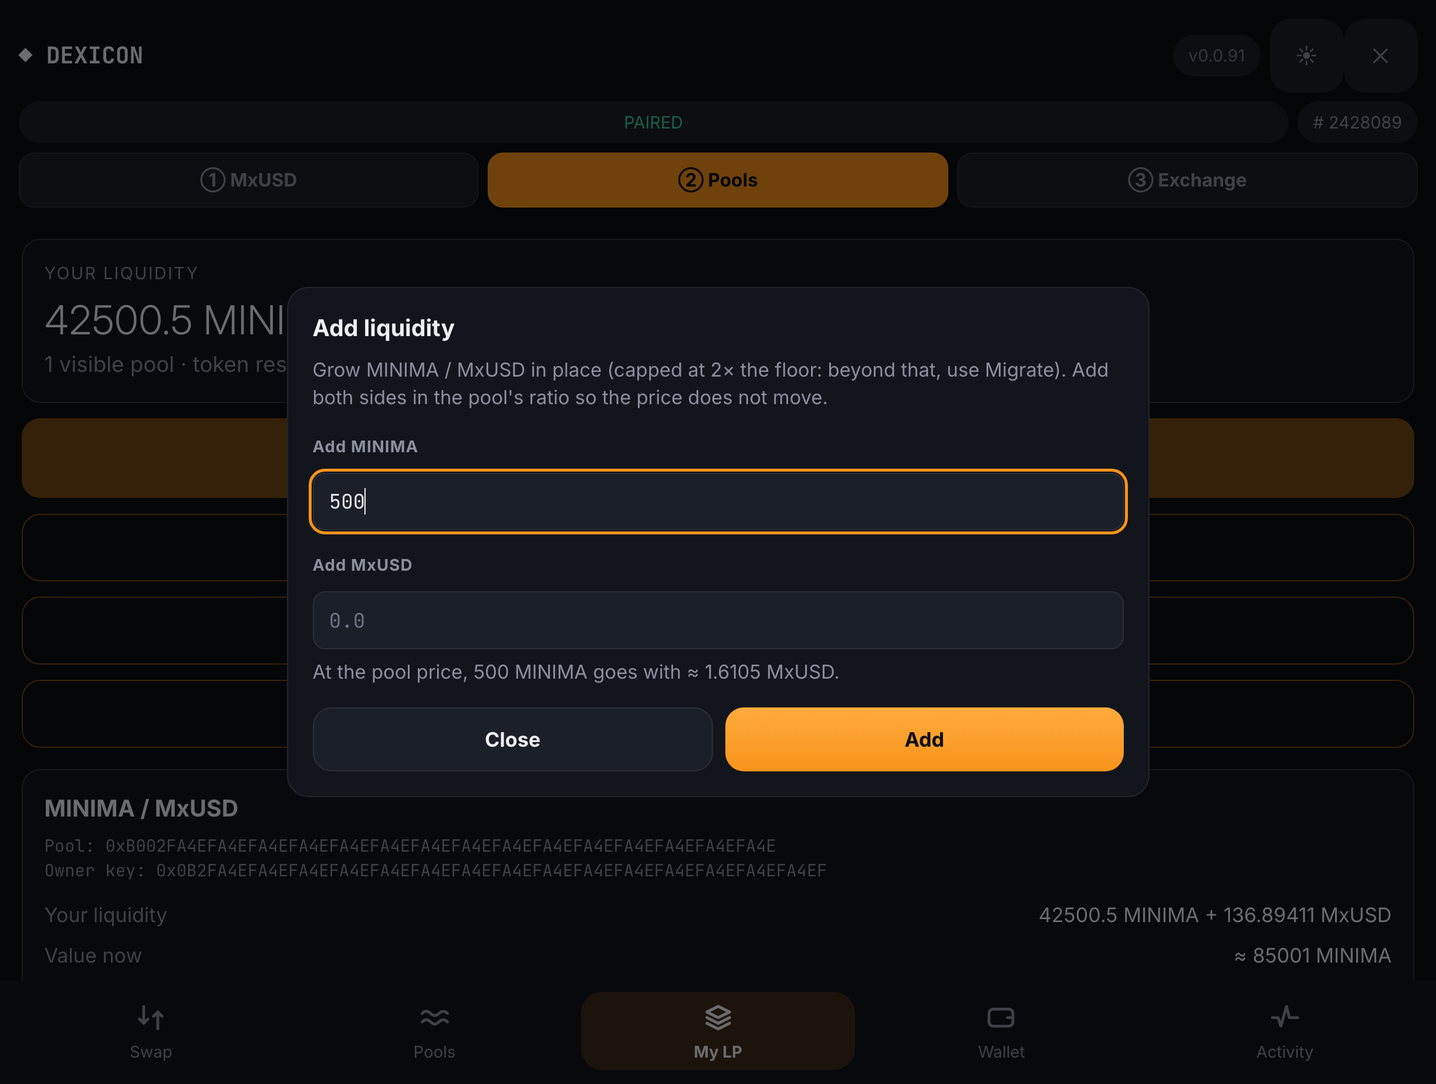
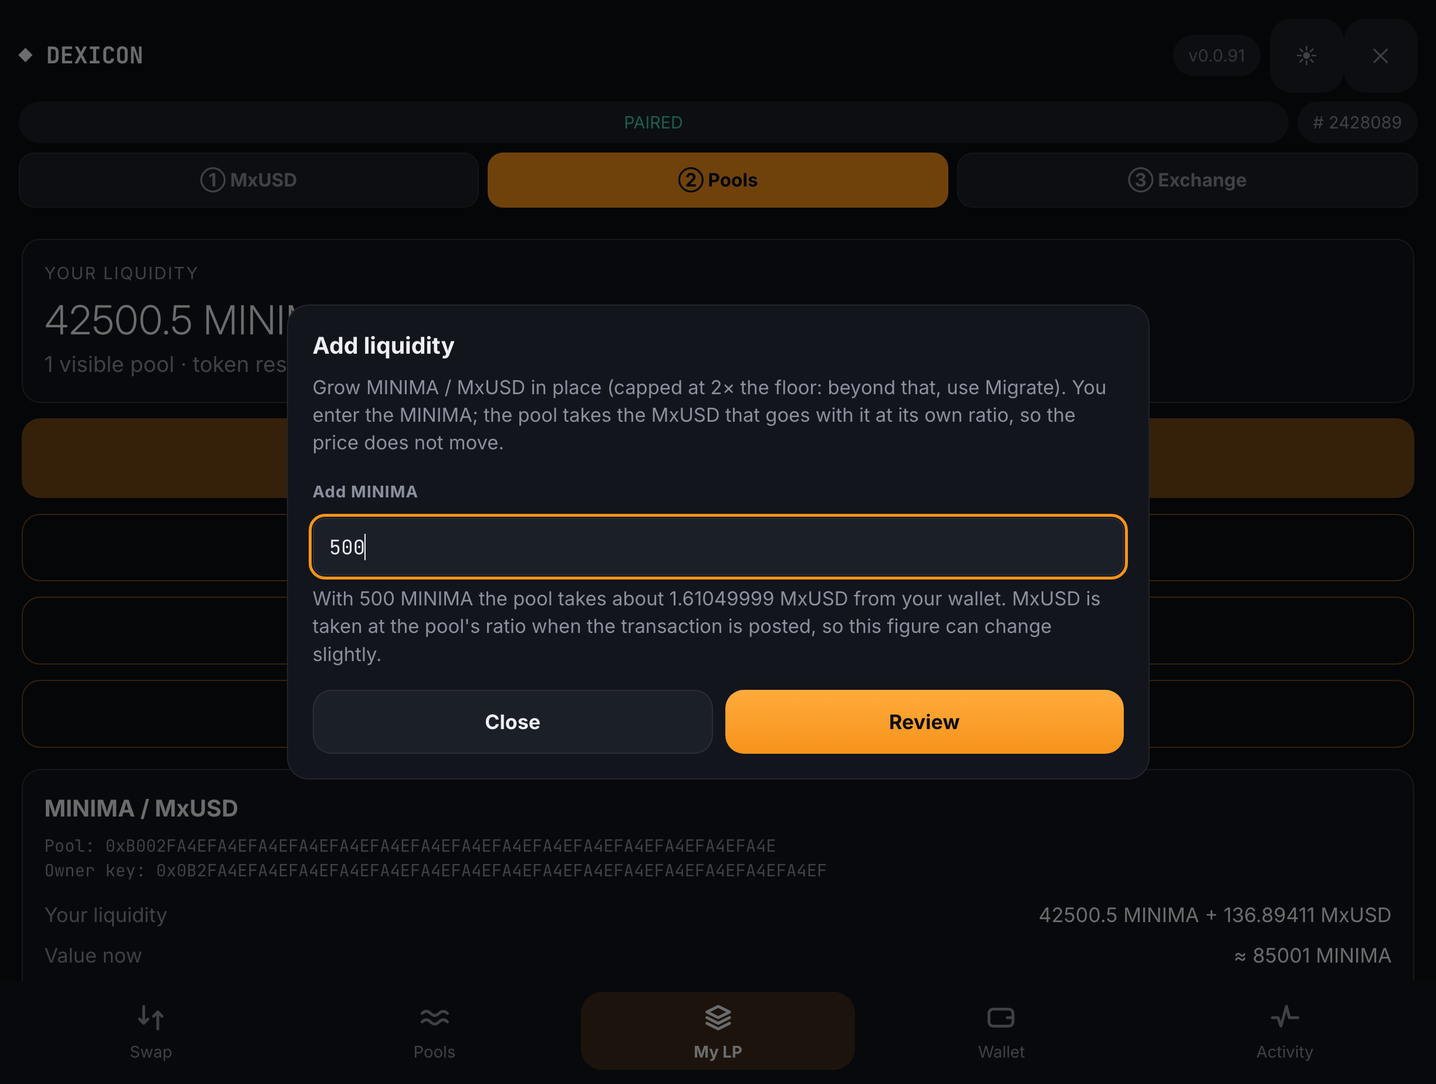
0.18.136: Dexicon ② Pools, Add liquidity reviews what is sent (review H) — one MINIMA field with the MxUSD the pool will take at its ratio as a live estimate; the review states both sides and that the MxUSD figure can change slightly; an empty or zero MINIMA amount is refused before the question; th
Claude-Session: https://claude.ai/code/session_01P3zos5bMGMNjR4T6fhfPNh

Changed region(s): [[0.2174, 0.2776, 0.8075, 0.7403]]

diff --git a/renderer/dexicon-pp.js b/renderer/dexicon-pp.js
@@ -86,7 +86,9 @@
   /** What the Swap click asks to be confirmed (SwapView.confirmAndSwap; the old panel's "Confirm swap"). */
   function swapReview(q, amt, t, dir) {
     const pay = dir ? "MINIMA" : t.name, get = dir ? t.name : "MINIMA";
-    return { title: "Confirm swap", ok: "Swap", text: "Pay  " + amt + " " + pay + "\nReceive  " + whole(q.totalOut) + " " + get + "\nRate  ≈ " + cut(q.effPrice, 8) + " " + t.name + " / MINIMA\nPool pair  " + pairName(t) + (t.fake ? "\n\n" + IMITATES : "") + "\n\nPrice impact " + q.priceImpact + "%."
+    // what is PAID is the amount the engine routed (q.totalIn), which is what will be posted; a typed amount it did not take whole is said beside it
+    const routed = q.totalIn != null && q.totalIn !== "" ? whole(q.totalIn) : String(amt), typed = C.dec(amt), same = !typed || routed === C.str(typed);
+    return { title: "Confirm swap", ok: "Swap", text: "Pay  " + routed + " " + pay + (same ? "" : "  (you typed " + amt + "; this is the amount the pools take)") + "\nReceive  " + whole(q.totalOut) + " " + get + "\nRate  ≈ " + cut(q.effPrice, 8) + " " + t.name + " / MINIMA\nPool pair  " + pairName(t) + (t.fake ? "\n\n" + IMITATES : "") + "\n\nPrice impact " + q.priceImpact + "%."
       + (Number(q.poolsUsed) > 1 ? "\nRouted across " + q.poolsUsed + " pools in one transaction." : "")
       + "\n\nThis posts a real on-chain transaction for exactly these amounts. There is no slippage setting: if a pool moves before it confirms, the swap is rejected and you keep your funds." };
   }
@@ -132,6 +134,12 @@
       if (p.ageBlocks > 0) rows.push(["Age", (Number(p.ageBlocks) || 0) + " blocks  (~" + cutNum(p.ageBlocks * 50 / 3600) + " h)"]);
     }
     return rows;
+  }
+  /** The token side of an Add, as the engine works it out (main/pandapools/poolmgr.js deposit): MINIMA × token reserve ÷ MINIMA
+   *  reserve, CUT to the token's decimals. An estimate: the engine uses the reserves it reads when it posts. null = not known. */
+  function depositToken(p, a) {
+    const m = C.dec(a), rm = C.dec(p && p.reserveM), rt = C.dec(p && p.reserveT); if (!m || !rm || !rt || rm.v === 0n) return null;
+    return C.str(C.down(C.div(C.mul(m, rt), rm, 30), safeDec({ decimals: p.tokDecimals })));
   }
   const poolIds = (p) => "Pool: " + p.address + (p.opk ? "\nOwner key: " + p.opk : "");
   const recoveryResult = (r) => "Verified reserves for " + r.restored + " of " + r.total + " pools.\n" + (r.details || []).join("\n\n") + "\n" + (r.warn || "");
@@ -270,18 +278,27 @@
       const since = Date.now();
       try {
         const r = await api.ppSwap(q.quoteId);
-        ui.say("Swap submitted: you pay " + amt + " " + (dir ? "MINIMA" : t.name) + " and receive " + whole(r && r.totalOut) + " " + (dir ? t.name : "MINIMA") + " when a block confirms it. It is not final yet: follow it in Activity. Transaction " + ((r && r.txpowid) || "not reported"), "note");
+        ui.say("Swap submitted: you pay " + whole((r && r.totalIn) || q.totalIn || amt) + " " + (dir ? "MINIMA" : t.name) + " and receive " + whole(r && r.totalOut) + " " + (dir ? t.name : "MINIMA") + " when a block confirms it. It is not final yet: follow it in Activity. Transaction " + ((r && r.txpowid) || "not reported"), "note");
         return r || {};
       } catch (e) { ui.say(await why(api, "The swap", e, since), "error"); return { err: bare(e) }; }
     },
-    /** Add liquidity (the old panel's sheet): either amount may be left empty, not both; confirm → ppDeposit(address, a || "0", b || "0"). */
-    async deposit(api, ui, p, a, b) {
-      const name = tokLabel(p.tok, p.tokName), ok = (v) => v === "" || /^[0-9]*\.?[0-9]+$/.test(v);
-      if (!ok(a) || !ok(b) || ((parseFloat(a) || 0) <= 0 && (parseFloat(b) || 0) <= 0)) { ui.say("Enter an amount to add. Nothing was sent.", "note"); return null; }
-      if (!await ui.confirm("Add liquidity?", "Add " + (a || "0") + " MINIMA and " + (b || "0") + " " + name + " to the pool.\n\nPool: " + p.address + "\n\nThis posts an on-chain transaction and cannot be undone. The amounts stay yours inside the pool.", "Add")) return null;
+    /**
+     * Add liquidity. The engine takes ONE figure, the MINIMA to add, and works the token side out itself from the pool's
+     * live ratio when it posts (poolmgr.js deposit); a typed token amount was never used. So: one MINIMA amount, above
+     * zero (refused here, before the question); the review states both sides, the token side as the estimate it is;
+     * ppDeposit(address, MINIMA, that estimate), the engine's own call; and the result says what the engine took
+     * (r.minima, r.token from the glue), never what was typed.
+     */
+    async deposit(api, ui, p, a) {
+      const name = tokLabel(p.tok, p.tokName), est = amountOk(a) ? depositToken(p, a) : null;
+      if (!amountOk(a)) { ui.say("Enter the MINIMA amount to add, above zero. Nothing was sent.", "note"); return null; }
+      if (est == null) { ui.say("The pool's reserves are not known just now, so the " + name + " that goes with " + a + " MINIMA cannot be shown. Nothing was sent: try again in a moment.", "note"); return null; }
+      if (!await ui.confirm("Add liquidity?", "Add " + a + " MINIMA and about " + est + " " + name + " to the pool.\n\n" + name + " is taken at the pool's ratio when the transaction is posted, so this figure can change slightly.\n\nPool pair: " + pairName({ tok: p.tok, name }) + "\nPool: " + p.address + "\n\nThis posts an on-chain transaction and cannot be undone. The amounts stay yours inside the pool.", "Add")) return null;
       const since = Date.now();
-      try { const r = await api.ppDeposit(p.address, a || "0", b || "0"); ui.say("Liquidity sent to the pool: " + (a || "0") + " MINIMA and " + (b || "0") + " " + name + ". It counts once a block confirms it: follow it in Activity.", "note"); return r || {}; }
-      catch (e) { ui.say(await why(api, "Adding liquidity", e, since), "error"); return { err: bare(e) }; }
+      try {
+        const r = await api.ppDeposit(p.address, a, est);
+        ui.say("Liquidity sent to the pool: " + (r && r.minima && r.token ? whole(r.minima) + " MINIMA and " + whole(r.token) + " " + name + ", the amounts the pool took at its ratio" : a + " MINIMA and the " + name + " that goes with it at the pool's ratio (the exact figure is in Activity)") + ". It counts once a block confirms it: follow it in Activity.", "note"); return r || {};
+      } catch (e) { ui.say(await why(api, "Adding liquidity", e, since), "error"); return { err: bare(e) }; }
     },
     /** Close a pool and take all its liquidity out: confirm → ppClose(address). */
     async withdraw(api, ui, p) {
@@ -405,7 +422,7 @@
     }
   };
 
-  const core = { ACT_NAME, when, since, swapSummary, actItem, feedItem, walletCard, nodeCheck, STEPS, safeDec, createTokens, derive, createInfo, backupProblem, plainCode, cutNum, MIGRATE_AT, needsMigrate, lpSummary, lpRows, poolIds, recoveryResult, MINIMA, MXUSD, isMxusd, tokLabel, pairName, skeleton, imitates, IMITATES, chosen, NONE, lostLine, mx, cut, whole, amountOk, plural, pairs, poolLine, sendable, balanceLine, marketLine, quoteRows, swapReview, poolsSummary, poolCard, combinedCard, bare, failText };
+  const core = { ACT_NAME, when, since, swapSummary, actItem, feedItem, walletCard, nodeCheck, STEPS, safeDec, createTokens, derive, createInfo, backupProblem, plainCode, cutNum, MIGRATE_AT, needsMigrate, lpSummary, lpRows, depositToken, poolIds, recoveryResult, MINIMA, MXUSD, isMxusd, tokLabel, pairName, skeleton, imitates, IMITATES, chosen, NONE, lostLine, mx, cut, whole, amountOk, plural, pairs, poolLine, sendable, balanceLine, marketLine, quoteRows, swapReview, poolsSummary, poolCard, combinedCard, bare, failText };
   if (typeof document === "undefined") return Object.assign({ Act }, core);
 
   // ======================================================================== the screens
@@ -583,10 +600,12 @@
   /** every money action of the screen: Dexicon's one gate, the buttons off while it runs, then a fresh read */
   const act = (fn) => D.money(async () => { paint(); try { await fn(); } catch (e) { say(failText("That", e), "error"); } load(S.tab).then(paint, paint); }).then(paint, paint);
   async function addSheet(p) {
-    const name = tokLabel(p.tok, p.tokName), price = C.dec(p.poolPrice);
-    const got = await form("Add liquidity", `<div class="pp-note">Grow ${esc(pairName({ tok: p.tok, name }))} in place (capped at 2× the floor: beyond that, use Migrate). Add both sides in the pool's ratio so the price does not move.</div>${fld("Add MINIMA", "a")}${fld("Add " + name, "b")}<div class="pp-note" data-hint></div>`, "Add",
-      (d) => ({ a: val(d, "a"), b: val(d, "b") }), (d) => { d.oninput = () => { const m = C.dec(val(d, "a")); d.querySelector("[data-hint]").textContent = m && price && m.v > 0n ? "At the pool price, " + C.str(m) + " MINIMA goes with ≈ " + C.str(C.down(C.mul(m, price), 8)) + " " + name + "." : ""; }; });
-    if (got) await Act.deposit(api(), ui, p, got.a, got.b);
+    const name = tokLabel(p.tok, p.tokName);
+    // ONE field: the engine takes the MINIMA amount and works the token side out itself (Act.deposit)
+    const hint = (v) => { const est = amountOk(v) ? depositToken(p, v) : null; return !v ? "" : est == null ? "Enter the MINIMA amount to add, above zero." : "With " + v + " MINIMA the pool takes about " + est + " " + name + " from your wallet. " + name + " is taken at the pool's ratio when the transaction is posted, so this figure can change slightly."; };
+    const got = await form("Add liquidity", `<div class="pp-note">Grow ${esc(pairName({ tok: p.tok, name }))} in place (capped at 2× the floor: beyond that, use Migrate). You enter the MINIMA; the pool takes the ${esc(name)} that goes with it at its own ratio, so the price does not move.</div>${fld("Add MINIMA", "a")}<div class="pp-note" data-hint role="status"></div>`, "Review",
+      (d) => (amountOk(val(d, "a")) ? { a: val(d, "a") } : "Enter the MINIMA amount to add, above zero. Nothing was sent."), (d) => { d.oninput = () => { d.querySelector("[data-hint]").textContent = hint(val(d, "a")); d.querySelector(".pp-bad").textContent = ""; }; });
+    if (got) await Act.deposit(api(), ui, p, got.a);
   }
   function calc(address) {
     const seed = address ? pool(address) : null, cs = getComputedStyle($("shell")), cv = (n, fb) => cs.getPropertyValue(n).trim() || fb;

diff --git a/main/pandapools.js b/main/pandapools.js
@@ -581,13 +581,28 @@ function actionOnPool(addr, fn, label, summary) {
     if (!p) return Promise.reject(new Error("Pool not found in the current scan — try again in a moment."));
     return queuedAction(label, function (resolve, reject) {
       fn(p, {
-        ok: function (txpowid) { ctx.Store.actRecord(label, summary || (label + " on a pool"), txpowid, lastTip, ""); emitter.emit("update"); resolve({ txpowid: txpowid }); },
+        ok: function (txpowid) { ctx.Store.actRecord(label, (typeof summary === "function" ? summary() : summary) || (label + " on a pool"), txpowid, lastTip, ""); emitter.emit("update"); resolve({ txpowid: txpowid }); },
         fail: function (m) { reject(new Error(m)); },
       });
     });
   });
 }
-function deposit(addr, addM, addT) { return actionOnPool(addr, function (p, d) { ctx.PoolMgr.deposit(p, addM, addT, d); }, "ADD", "Added liquidity"); }
+/**
+ * Add liquidity. The engine takes the MINIMA amount and works the token side out itself from the reserves it reads when
+ * it posts (poolmgr.js deposit: addM × reserveT ÷ reserveM, cut to the token's decimals); addT is not used by it, and it
+ * answers with the transaction id only. So what it TOOK is worked out here, by its own rule, with its own Decimal, from
+ * the same pool object it has just refreshed (0.18.136): the record and the screen's result say that, not what was typed.
+ */
+function depositUsed(p, addM) {
+  try { var m = D(addM), t = m.times(D(p.reserveT)).div(D(p.reserveM)).toDP(p.tokDecimals, ctx.PP.D.ROUND_DOWN); return { minima: s(m), token: s(t), label: labelById(p.tok, p.tokName) }; }
+  catch (e) { return null; }
+}
+function deposit(addr, addM, addT) {
+  var used = null;
+  return actionOnPool(addr, function (p, d) { ctx.PoolMgr.deposit(p, addM, addT, { ok: function (txpowid) { used = depositUsed(p, addM); d.ok(txpowid); }, fail: d.fail }); }, "ADD",
+    function () { return used ? "Added " + used.minima + " MINIMA and " + used.token + " " + used.label + " to a pool" : "Added liquidity"; })
+    .then(function (r) { return used ? Object.assign(r, { minima: used.minima, token: used.token }) : r; });
+}
 
 /** READ-ONLY owner-key and signing-state pre-flight before an owner-signed spend (WITHDRAW / MIGRATE).
  *  Delegates to PoolMgr.ensureOwnerKeys, which since MDS 0.6.2x is ReserveRecovery.ensureKeys: it reads the
@@ -826,5 +841,5 @@ module.exports = {
   market, createAnchor, marketToken,
   swap, createPool, deposit, close: closePool, migrate, collectToWallet, pendingCollect, backup, restore, recoverSaved, retirePool, listRetired, archiveSettings, confirmSigning,
   onNodeRestarted, lastNodeFailure, status, activeWork,
-  _setRunner, _setDataDir, _labelById: labelById, _relabelSwap: relabelSwap,
+  _setRunner, _setDataDir, _labelById: labelById, _relabelSwap: relabelSwap, _depositUsed: depositUsed,
 };

diff --git a/scripts/dev-preview/build.js b/scripts/dev-preview/build.js
@@ -91,7 +91,7 @@ if (process.argv.includes("--shots")) {
     ["pp-swap-scroll", "view=pandapools&ppf=250&scroll=400"], ["pp-swap-narrow", "view=pandapools&ppf=250", 560, 915, 2],
     ["pp-pools-combined", "view=pandapools&pptab=pools&ppdo=%5Bdata-ppmode%3Dcombined%5D"], ["pp-pools-combined-dxlight", "view=pandapools&dx=light&pptab=pools&ppdo=%5Bdata-ppmode%3Dcombined%5D"], ["pp-pools-empty", "view=pandapools&pptab=pools&pps=empty"],
     ["pp-pools-notready", "view=pandapools&pptab=pools&pps=notready"], ["pp-pools-stopped", "view=pandapools&pptab=pools&state=stopped"], ["pp-pools-narrow", "view=pandapools&pptab=pools", 560, 915, 2],
-    ["pp-mylp-scroll", "view=pandapools&pptab=mylp&scroll=520"], ["pp-mylp-scroll-dxlight", "view=pandapools&dx=light&pptab=mylp&scroll=520"], ["pp-mylp-scroll2", "view=pandapools&pptab=mylp&scroll=1100"], ["pp-mylp-add", "view=pandapools&pptab=mylp&ppdo=%5Bdata-ppadd%5D&ppin=.pp-dlg%20%5Bname%3Da%5D%3D500"], ["pp-mylp-close", "view=pandapools&pptab=mylp&ppdo=%5Bdata-ppclose%5D"],
+    ["pp-mylp-scroll", "view=pandapools&pptab=mylp&scroll=520"], ["pp-mylp-scroll-dxlight", "view=pandapools&dx=light&pptab=mylp&scroll=520"], ["pp-mylp-scroll2", "view=pandapools&pptab=mylp&scroll=1100"], ["pp-mylp-add", "view=pandapools&pptab=mylp&ppdo=%5Bdata-ppadd%5D&ppin=.pp-dlg%20%5Bname%3Da%5D%3D500"], ["pp-mylp-add-review", "view=pandapools&pptab=mylp&ppdo=%5Bdata-ppadd%5D%7C.pp-dlg%20%5Bdata-x%3D%221%22%5D&ppin=.pp-dlg%20%5Bname%3Da%5D%3D500"], ["pp-mylp-add-empty", "view=pandapools&pptab=mylp&ppdo=%5Bdata-ppadd%5D%7C.pp-dlg%20%5Bdata-x%3D%221%22%5D"], ["pp-mylp-add-done", "view=pandapools&pptab=mylp&ppdo=%5Bdata-ppadd%5D%7C.pp-dlg%20%5Bdata-x%3D%221%22%5D%7C.dx-dlg%3Anot(.pp-dlg)%20%5Bdata-x%3D%221%22%5D&ppin=.pp-dlg%20%5Bname%3Da%5D%3D500"], ["pp-mylp-close", "view=pandapools&pptab=mylp&ppdo=%5Bdata-ppclose%5D"],
     ["pp-mylp-paused", "view=pandapools&pptab=mylp&pps=paused&scroll=520"], ["pp-mylp-collect", "view=pandapools&pptab=mylp&pps=collect&scroll=300"], ["pp-mylp-stranded", "view=pandapools&pptab=mylp&pps=stranded&scroll=300"], ["pp-mylp-empty", "view=pandapools&pptab=mylp&pps=empty"],
     ["pp-mylp-calc", "view=pandapools&pptab=mylp&ppdo=%5Bdata-ppcalc%5D"], ["pp-mylp-closed", "view=pandapools&pptab=mylp&ppdo=%5Bdata-pptool%3Dclosed%5D"], ["pp-mylp-migrate", "view=pandapools&pptab=mylp&pps=migrate&scroll=620"], ["pp-mylp-narrow", "view=pandapools&pptab=mylp", 560, 915, 2],
     ["pp-recovery-menu", "view=pandapools&pptab=mylp&ppdo=%5Bdata-pptool%3Drecovery%5D"], ["pp-recovery-backup", "view=pandapools&pptab=mylp&ppdo=%5Bdata-pptool%3Drecovery%5D%7C%5Bdata-pick%3Dbackup%5D"], ["pp-recovery-backup-short", "view=pandapools&pptab=mylp&ppdo=%5Bdata-pptool%3Drecovery%5D%7C%5Bdata-pick%3Dbackup%5D%7C.pp-dlg%20%5Bdata-x%3D%221%22%5D&ppin=%5Bname%3Dp1%5D%3Dshort"],

diff --git a/scripts/dev-preview/stub.js b/scripts/dev-preview/stub.js
@@ -242,7 +242,7 @@
     ppSwap: async () => (PPS === "swapfail" ? ppFail("Could not identify the input signing key.") : { txpowid: FAKE_PK("7001"), totalIn: "250", totalOut: "0.79833" }),
     ppWhy: async () => (PPS === "swapfail" ? { verb: "txnsign", error: "No keys found for the coin's address", at: Date.now() } : PPS === "mintfail" ? { verb: "newaddress", error: "MiniDAPP does not have WRITE permission", at: Date.now() } : null),
     ppCreate: async () => (PPS === "backup" || PPS === "backup2" ? ppFail("BACKUP_REQUIRED: save and verify the encrypted pool + node backup before creating another pool.") : PPS === "mintfail" ? ppFail("could not mint an owner key (grant this app write access to create pools)") : { txpowid: FAKE_PK("7005") }),
-    ppDeposit: async () => ({ txpowid: FAKE_PK("7006") }), ppMigrate: async () => (PPS === "backup" ? ppFail("BACKUP_REQUIRED: save and verify the encrypted pool + node backup before migrating.") : { txpowid: FAKE_PK("7007") }), ppClose: async () => ({ txpowid: FAKE_PK("7008") }),
+    ppDeposit: async (addr, m, t) => ({ txpowid: FAKE_PK("7006"), minima: String(m), token: String(t) }), ppMigrate: async () => (PPS === "backup" ? ppFail("BACKUP_REQUIRED: save and verify the encrypted pool + node backup before migrating.") : { txpowid: FAKE_PK("7007") }), ppClose: async () => ({ txpowid: FAKE_PK("7008") }),
     ppCollect: async () => (PPS === "stranded" ? { coins: 0, foreign: 1, stranded: true } : { coins: 2, foreign: 0, cleared: true }),
     ppPendingCollect: async () => (PPS === "collect" || PPS === "stranded" ? [{ oadr: FAKE_PK("0A7"), status: PPS === "stranded" ? "STRANDED" : "PENDING", lastError: PPS === "stranded" ? "No key in this wallet signs for this address." : "" }] : []),
     ppListRetired: async () => (PPS === "empty" ? [] : [{ address: FAKE_PK("B008"), opk: FAKE_PK("0B8") }]), ppRetirePool: async () => true,

diff --git a/docs/PANDAMONIUM_DESKTOP_PLAN.md b/docs/PANDAMONIUM_DESKTOP_PLAN.md
@@ -218,6 +218,7 @@ complete. miniMall is kept. Nothing is pushed or released without the owner's wo
 | 0.18.133 | 3c | Review M6 + lows: `lpPick` (LP by id and sizes, checked twice); `terminal()` leaves an in-window ERROR unfinished (`inWindow` from the glue); `launch` computed (`status().otcOffer`); `otcWithdraw` returns `posted`; save / publish failure wording; `rungSize`; `busyWhile` (no private gate); switch clears `S.otc` and the offline flag; tests "M6" and "lows" x4 | |
 | 0.18.134 | 3c | Wide-layout comparison for room ① (captures `09b`, `09c`, `10b` of 19 Nov): phone wording on Market and OTC, `midLine`, explainers open until folded, maker keys at the outer edges, OTC fields as a line; all dev-preview shots retaken; test "wide layout" | |
 | 0.18.135 | 3d review | Review H (token identity): `tokLabel` marks every token but the real id "(not MxUSD)", `pairName` carries the whole token id, `skeleton` / `imitates` (NFKD, zero-width and control stripped, Cyrillic and Greek look-alikes) add the review's warning line, `pairs` puts MxUSD first, `chosen` holds the selection by token id (a lost id selects nothing); glue `labelById` / `relabelSwap` label records by id, `mx()` no longer applied to records; tests "a look-alike token is never MxUSD", "the glue labels a token in a record by its id" | |
+| 0.18.136 | 3d review | Review H (Add liquidity): one MINIMA field; `depositToken` (the engine's rule, cut to the token's decimals) as the live estimate and in the review; empty or zero refused before the question; glue `depositUsed` returns `minima` / `token` and writes them into the ADD record; swap review and result print `q.totalIn`; tests "Add liquidity: one MINIMA amount…", "swap: the review and the result print the amount the pools take" | |
 
 Phase 0 change of scope: the data folder is not pinned, because the app is not being renamed (D2).
 Known failures that predate this branch (fail on `origin/master` 0.18.64): `scripts/panels-test.cjs` "overlay sites";
@@ -307,3 +308,4 @@ Phases 0 to 2 were verified by tests and a browser preview only. The app has not
 - [ ] OTC rows (0.18.133): with two LPs on the board, focus a size field, wait for the board to change order, click Buy on a row: the dialog and the offer name the LP whose card was clicked, or "That LP's offer changed or left the board". Editor: type size 1234567.89: the rungs read 1234567.89. Close the editor during Save: the outcome is said on Market and the buttons are not usable meanwhile.
 - [ ] Room ① wide (0.18.134): at the Fold's size, Market and OTC read beside the phone: explainer open, price line with bid / ask and age, keys at the outer edges, OTC fields as lines; fold an explainer and it stays folded after a restart.
 - [ ] Token identity (0.18.135, dev node): create a token named "MxUSD " and a pool for it deeper than the MxUSD pools: Swap still opens on MINIMA / MxUSD; the other pair reads "MxUSD (not MxUSD) · token <whole id>" in the list, the pool line, Pools and the review, and the review carries "This token is not MxUSD. Its name imitates it."; select it, close its pool, rescan: nothing is selected and the screen says so. A swap of it reads "… (not MxUSD, token <id>)" in Activity.
+- [ ] Add liquidity (0.18.136, dev node, small amounts): My LP, Add: one MINIMA field with the MxUSD estimate under it; Review with the field empty is refused in the form; add a small amount: the result line and the Activity record give the MINIMA and the MxUSD the pool took, and the wallet's MxUSD fell by that figure.

diff --git a/CHANGELOG.md b/CHANGELOG.md
@@ -7,6 +7,16 @@ matching [GitHub Release](../../releases).
 
 ---
 
+## [0.18.136] — Dexicon ② Pools: Add liquidity reviews what is sent (review, high)
+
+- **Found**: the engine takes one figure for an Add, the MINIMA, and works the token side out itself from the pool's ratio when it posts; it refuses a zero MINIMA amount. The screen had two fields. With 100 and nothing, the review and the result said "100 MINIMA and 0 MxUSD" while the pool took the matching MxUSD as well. With nothing and 5, the user confirmed and was then told "enter an amount to add".
+- **Add liquidity has one field, MINIMA.** Under it, the MxUSD the pool will take at its current ratio, as an estimate that follows the typing.
+- **The review states both sides**: "Add 500 MINIMA and about 1.61049999 MxUSD to the pool. MxUSD is taken at the pool's ratio when the transaction is posted, so this figure can change slightly.", with the pool pair and the pool address.
+- **An empty or zero MINIMA amount is refused before the question**, in the form.
+- **The result says what the pool took**, not what was typed. The engine answers with the transaction id only, so the glue works the token side out by the engine's own rule, with the engine's own arithmetic, from the reserves the engine had just read (`depositUsed` in `main/pandapools.js`); the same figures go into the Activity record ("Added 500 MINIMA and 1.61049999 MxUSD to a pool"). When that figure is not known the result says so and points to Activity.
+- The call is unchanged: `ppDeposit(pool, MINIMA, token)`. The third argument is now the reviewed estimate; the engine does not use it.
+- **Swap**: the review and the result print the amount the pools take (the route's `totalIn`); when it differs from what was typed, the review says both.
+
 ## [0.18.135] — Dexicon ② Pools: a token is its id, never its name (review, high)
 
 - **Found**: a token is named by whoever made it. One called "MxUSD " (a trailing space), "MxUSD" with a zero-width character, or "МxUSD" with a Cyrillic М was shown unmarked on Swap; the pool line and the review showed no token id; the pair list followed the scan, so a deep fake pool could be the default pair; the selection was a position in that list, so a rescan could silently change the selected token. MINIMA could be paid for a worthless token.
